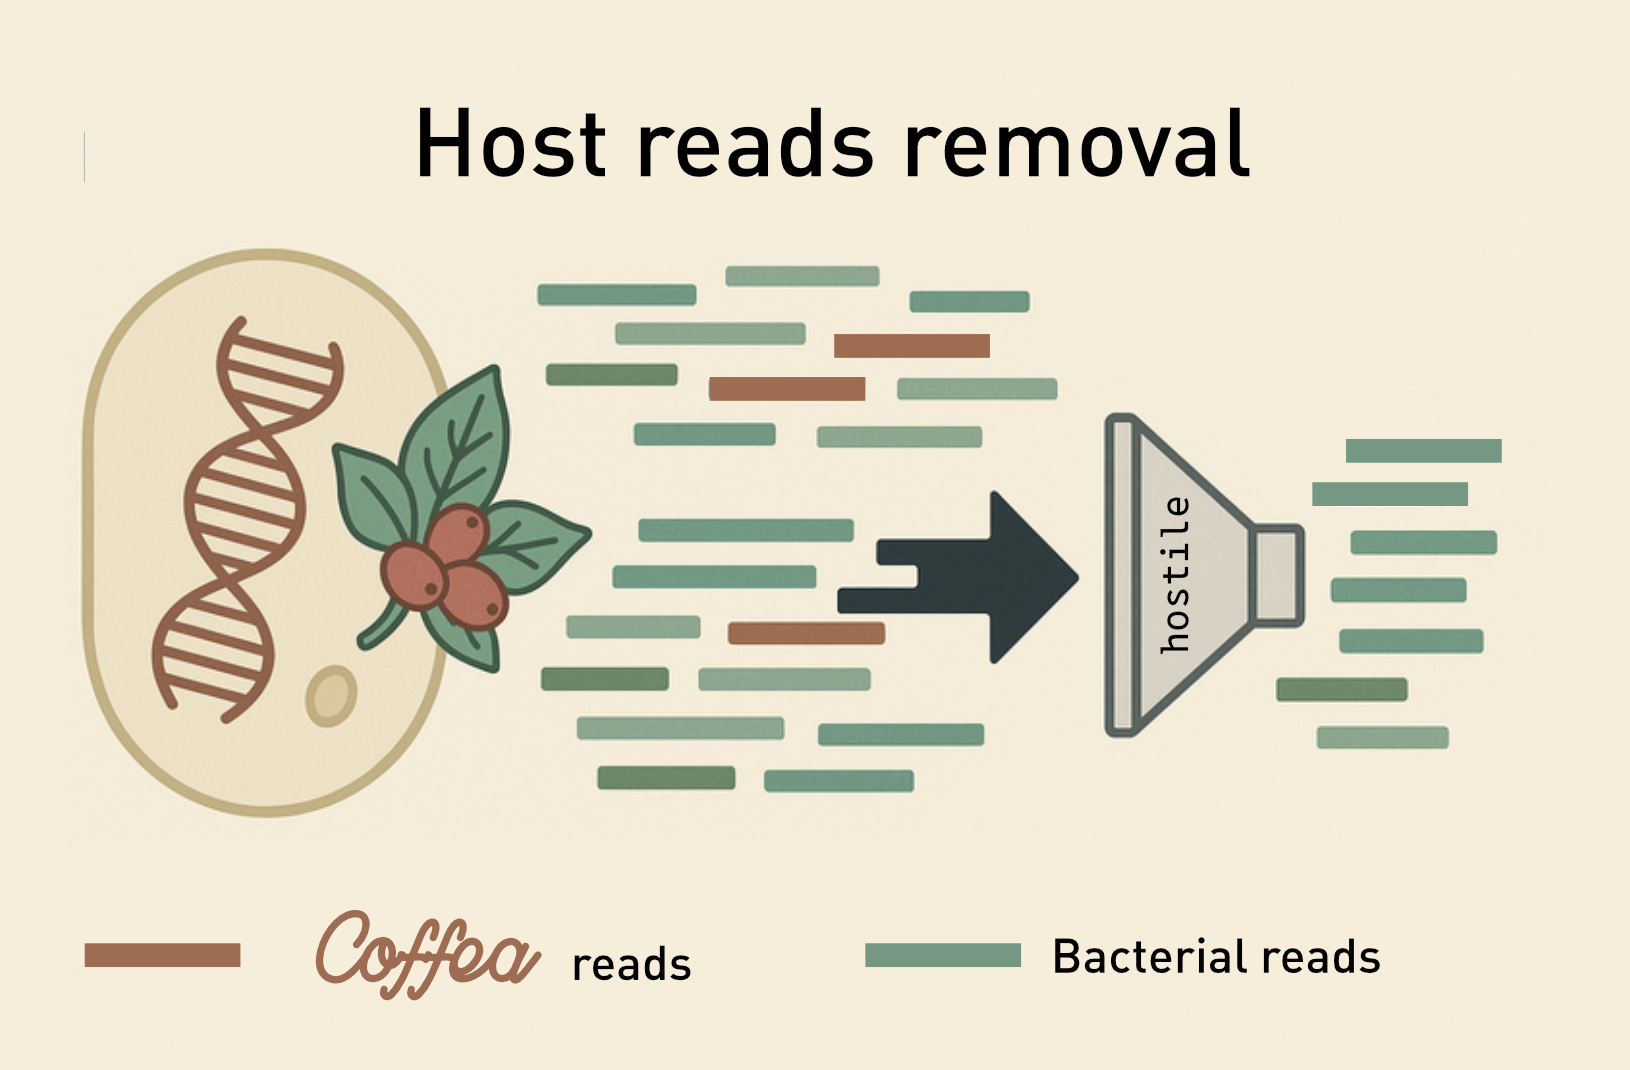
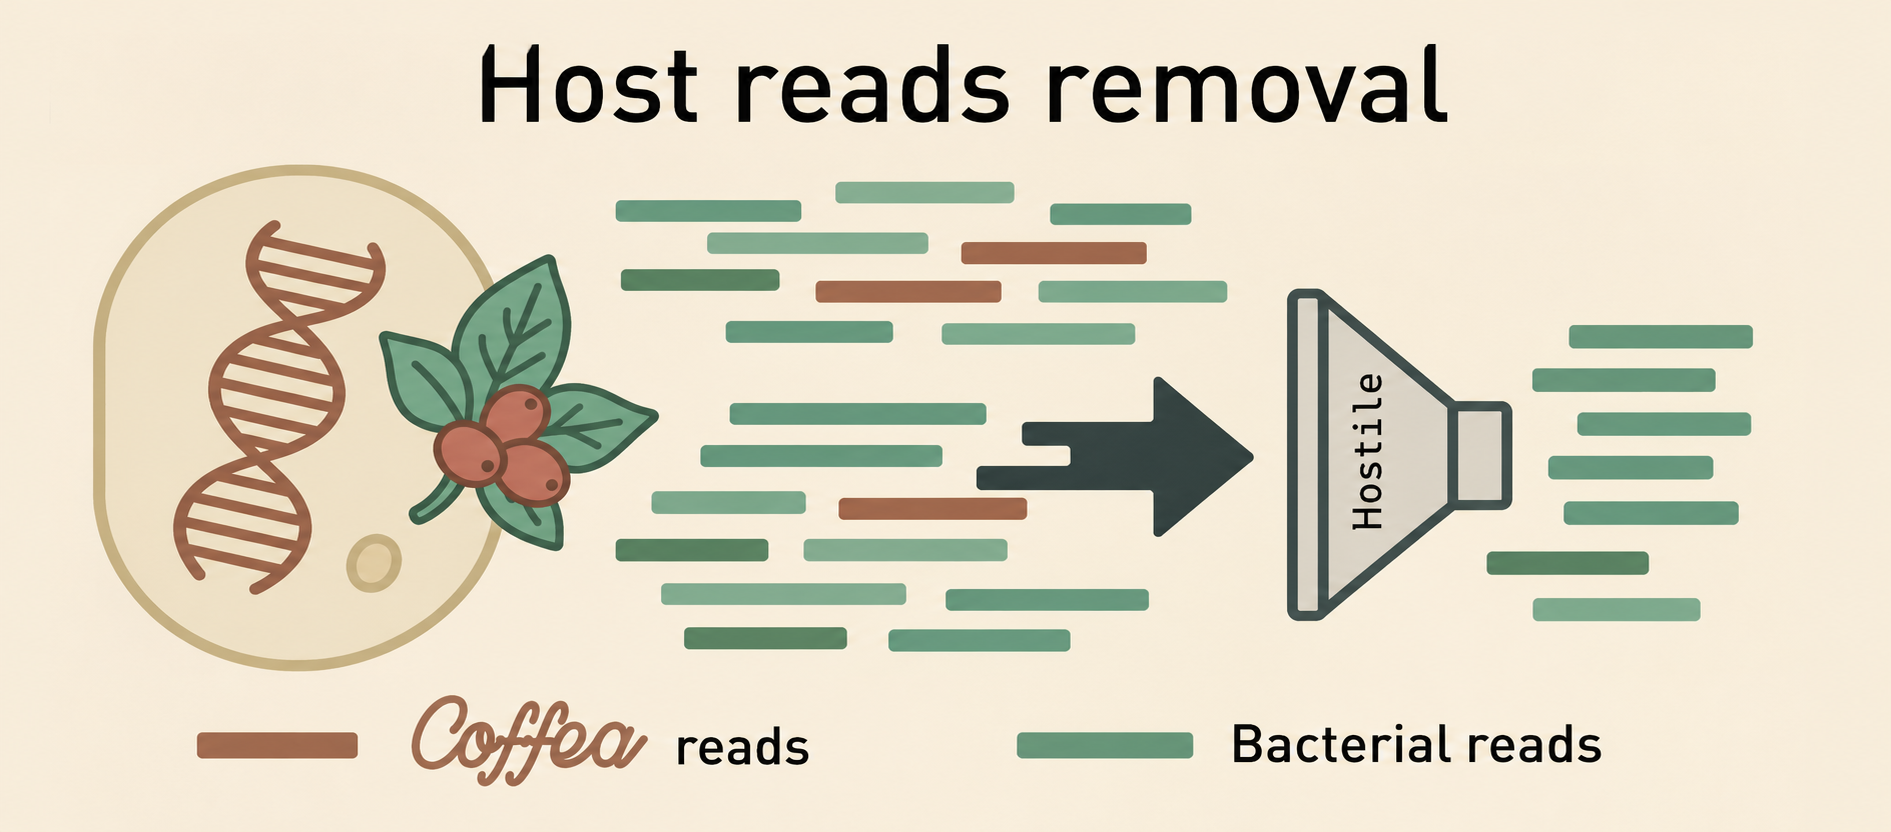
refresh

diff --git a/_includes/navigation.html b/_includes/navigation.html
@@ -1,5 +1,5 @@
 <!-- Navigation -->
-<nav class="navbar navbar-expand-md py-0 .navbar-dark bg-dark text-light">
+<nav class="navbar navbar-expand-md py-0 .navbar-dark bg-dark text-light sticky-top">
   <a class="navbar-brand" href="{{site.baseurl}}/"><i class="fa fa-home"></i></a>
 
   <button class="navbar-toggler" type="button" data-toggle="collapse" data-target="#navbarSupportedContent" aria-controls="navbarSupportedContent" aria-expanded="false" aria-label="Toggle navigation">

diff --git a/modules/QC/_posts/2001-01-01-hostile.md b/modules/QC/_posts/2001-01-01-hostile.md
@@ -31,76 +31,88 @@ So why dont' we simply leave the host reads?
 There is a host that is special: *Homo sapiens*. In our case we usually want to be more stringent in removing host reads (even at the risk of removing microbiome reads), to avoid patients data being identifiable. The genome is the most private biological property of an organism after all.
 
 
-## Using hostile
+## Using Deacon
 
-![Vignette](https://github.com/bede/hostile/blob/main/diagram.png?raw=true)
+[Deacon](https://github.com/bede/deacon) is a fast host-depletion tool that does **not** align reads to a reference. Instead it builds an index of **minimizers** (a compact subset of the *k*-mers) from the reference genome, and removes a read when it shares enough minimizers with that index. This makes it very fast and memory-efficient compared to alignment-based tools.
 
-Hostile is a pipeline based on alignment tools (bowtie2 or minimap2) to remove reads.
+:bulb: Deacon is available from Bioconda: `conda install -c bioconda deacon`. Pre-built indexes (e.g. `panhuman`) are also published for human host removal.
 
-:bulb: Hostile allows downloading pre-made reference indexes for Human and Mouse reads.
+The workflow has three steps: **1)** build an index from the reference, **2)** mask it to avoid removing genuine microbiome reads, and **3)** filter the reads.
 
-### Downloading coffee
+### Downloading the reference
 
-You can use NCBI's `datasets` tool to download the `GCA_036785865.1` reference 
+You can use NCBI's `datasets` tool to download the `GCA_036785865.1` coffee reference 
 [as described here]({{ site.baseurl }}/{% link modules/Extras/_posts/2001-01-01-ncbi-datasets.md %}).
 
-### Index reference (Bowtie)
-
-Note that the FASTA file can be masked to remove regions similar to bacterial's segments, but we will skip this step
-for the workshop.
-
-If you will use Bowtie2 (usually recommended for Illumina reads) as aligner, you will need to build an index with this syntax:
+### 1. Build the index
 
 ```bash
-bowtie2-build $FASTA_REFERENCE $OUTPUT_INDEX
+deacon index build coffee.fa.gz > coffee.idx
 ```
 
-* `$FASTA_REFERENCE` is the path to the FASTA file
-* `$OUTPUT_INDEX` is the path to the output files (basename). You will use this as index for cleaning the reads
+* The input (`coffee.fa.gz`) is the reference FASTA (plain or gzipped); use `-` to read from stdin.
+* `-k` sets the *k*-mer length (default 31) and `-w` the minimizer window (default 15); the defaults are a good starting point.
+* `-t` sets the number of threads.
 
-### Clean reads
+### 2. Mask the index
 
-The *hostile clean* workflow will require the FASTQ files to reads (one if single-end, two if paired-end),
-the index against which aligning the reads and a directory where the output files will be written adding a suffix "clean_1" and "clean_2" respectively.
+As noted above, some regions of the host genome are similar to bacterial sequences. If we keep them in the index, we risk removing real microbiome reads. We can **subtract** the minimizers that the host shares with bacterial references, producing a *masked* index.
 
-Redirecting the standard output, we will save a [JSON](https://telatin.github.io/microbiome-bioinformatics/json-xml/) file with the statistics (amount of host reads).
+We don't need to assemble our own bacterial set: Deacon's own pre-built indexes are masked against **FDA-ARGOS 988**, a curated collection of 988 bacterial genomes published on [Zenodo](https://zenodo.org/records/15424142) for exactly this purpose. We download it and subtract it from the raw index:
+
+:bulb: For the training, this file has already been downloaded for you — use the pre-downloaded copy (path provided during the session) instead of downloading the ~1.2 GB file yourself.
 
 ```bash
-INDEX=/shared/team/2025_training/week5/coffee/coffee-index
+# Download the masking set (~1.2 GB; it is zstd-compressed, so we recompress to gzip)
+curl -fSL 'https://zenodo.org/records/15424142/files/argos988.fa.zst?download=1' \
+  | zstd -d | gzip > argos988.fa.gz
+
+# Subtract the shared minimizers to produce the masked index
+deacon index diff coffee.idx argos988.fa.gz > coffee.masked.idx
+```
+
+* `deacon index diff A.idx B` removes from `A` every minimizer also found in `B` (another index or a FASTA/FASTQ file).
+* For a human host you can skip these two steps entirely and fetch a ready-masked index with `deacon index fetch panhuman-1`; the manual masking matters only for a custom host like coffee.
+* Low-complexity sequence can also be ignored at filtering time with the `-c/--complexity-threshold` option (see below), so this masking step is optional but recommended when the host is phylogenetically close to members of the microbiome.
+
+### 3. Clean the reads
+
+To remove host reads we run `deacon filter` with the `-d/--deplete` flag (otherwise Deacon would *keep* the matching reads). For paired-end data we pass both FASTQ files and write two cleaned outputs:
+
+```bash
+INDEX=coffee.masked.idx
 OUTDIR=cleaned-reads
 mkdir -p $OUTDIR
 
-hostile clean --threads 8 --index $INDEX_PATH \
-  --fastq1 $R1 --fastq2 $R2 \
-  --output $OUTDIR/ > stats.json
+deacon filter --deplete --threads 8 \
+  --check-pairs \
+  $INDEX $R1 $R2 \
+  -o $OUTDIR/${BASE}_1.fastq.gz \
+  -O $OUTDIR/${BASE}_2.fastq.gz \
+  --summary $OUTDIR/${BASE}.deacon.json
 ```
 
-The flags are self-explanatory, and the variables should be replaced with file paths.
+* `--deplete` removes the reads matching the host index (host depletion).
+* `$R1` and `$R2` are the input reads; `-o` and `-O` are the two cleaned outputs.
+* `--check-pairs` validates that the two files stay in sync.
+* `--summary` writes a JSON file with the statistics.
+* `-c 0.1` (optional) ignores low-complexity matches.
 
 ### Summary statistics
 
-The output JSON file will contain statistics about the amount of host reads removed.
+The JSON summary reports how many reads (and bases) were removed. For paired data each pair counts as **two** sequences, so a pair where both mates are host contributes 2 to `seqs_removed`.
 
 ```json
-[
-    {
-        "version": "2.0.2",
-        "aligner": "bowtie2",
-        "index": "/path/to/db/Coffea_canephora/coffee",
-        "options": [],
-        "fastq1_in_name": "ERR2231567_1.fastq.gz",
-        "fastq1_in_path": "/path/to/ERR2231567_1.fastq.gz",
-        "reads_in": 16544372,
-        "reads_out": 11733414,
-        "reads_removed": 4810958,
-        "reads_removed_proportion": 0.29079,
-        "fastq2_in_name": "ERR2231567_2.fastq.gz",
-        "fastq2_in_path": "/path/to/ERR2231567_2.fastq.gz",
-        "fastq1_out_name": "ERR2231567_1.clean_1.fastq.gz",
-        "fastq1_out_path": "2_qc/hostile/ERR2231567_1.clean_1.fastq.gz",
-        "fastq2_out_name": "ERR2231567_2.clean_2.fastq.gz",
-        "fastq2_out_path": "2_qc/hostile/ERR2231567_2.clean_2.fastq.gz"
-    }
-]
+{
+    "seqs_in": 33088744,
+    "seqs_out": 23466828,
+    "seqs_removed": 9621916,
+    "seqs_removed_proportion": 0.29079,
+    "bp_in": 4963311600,
+    "bp_out": 3520024200,
+    "bp_removed": 1443287400,
+    "bp_removed_proportion": 0.29079,
+    "time": 61.2,
+    "seqs_per_second": 540666
+}
 ```
-

diff --git a/modules/QC/_posts/2002-01-01-other.md b/modules/QC/_posts/2002-01-01-other.md
@@ -2,11 +2,82 @@
 title: Other methods
 ---
 
-Hostile is a great tool to remove host reads, and it brings
-the convenience of pre-built indexes for human and mouse.
+On the previous page we used **Deacon** to deplete host reads. It is far from the only option: host removal can be done by aligning reads to a reference and discarding the mapped ones, or by classifying reads with a *k*-mer database. Here we cover a few widely used alternatives, starting with **Hostile**.
 
-It's important to remember that at its core, Hostile is based on
-mapping reads to a reference genome, and then removing the mapped reads.
+## Using Hostile
+
+![Vignette](https://github.com/bede/hostile/blob/main/diagram.png?raw=true)
+
+Hostile is a pipeline based on alignment tools (bowtie2 or minimap2) to remove reads.
+
+:bulb: Hostile allows downloading pre-made reference indexes for Human and Mouse reads.
+
+### Downloading coffee
+
+You can use NCBI's `datasets` tool to download the `GCA_036785865.1` reference 
+[as described here]({{ site.baseurl }}/{% link modules/Extras/_posts/2001-01-01-ncbi-datasets.md %}).
+
+### Index reference (Bowtie)
+
+Note that the FASTA file can be masked to remove regions similar to bacterial's segments, but we will skip this step
+for the workshop.
+
+If you will use Bowtie2 (usually recommended for Illumina reads) as aligner, you will need to build an index with this syntax:
+
+```bash
+bowtie2-build $FASTA_REFERENCE $OUTPUT_INDEX
+```
+
+* `$FASTA_REFERENCE` is the path to the FASTA file
+* `$OUTPUT_INDEX` is the path to the output files (basename). You will use this as index for cleaning the reads
+
+### Clean reads
+
+The *hostile clean* workflow will require the FASTQ files to reads (one if single-end, two if paired-end),
+the index against which aligning the reads and a directory where the output files will be written adding a suffix "clean_1" and "clean_2" respectively.
+
+Redirecting the standard output, we will save a [JSON](https://telatin.github.io/microbiome-bioinformatics/json-xml/) file with the statistics (amount of host reads).
+
+```bash
+INDEX=/shared/team/2025_training/week5/coffee/coffee-index
+OUTDIR=cleaned-reads
+mkdir -p $OUTDIR
+
+hostile clean --threads 8 --index $INDEX_PATH \
+  --fastq1 $R1 --fastq2 $R2 \
+  --output $OUTDIR/ > stats.json
+```
+
+The flags are self-explanatory, and the variables should be replaced with file paths.
+
+### Summary statistics
+
+The output JSON file will contain statistics about the amount of host reads removed.
+
+```json
+[
+    {
+        "version": "2.0.2",
+        "aligner": "bowtie2",
+        "index": "/path/to/db/Coffea_canephora/coffee",
+        "options": [],
+        "fastq1_in_name": "ERR2231567_1.fastq.gz",
+        "fastq1_in_path": "/path/to/ERR2231567_1.fastq.gz",
+        "reads_in": 16544372,
+        "reads_out": 11733414,
+        "reads_removed": 4810958,
+        "reads_removed_proportion": 0.29079,
+        "fastq2_in_name": "ERR2231567_2.fastq.gz",
+        "fastq2_in_path": "/path/to/ERR2231567_2.fastq.gz",
+        "fastq1_out_name": "ERR2231567_1.clean_1.fastq.gz",
+        "fastq1_out_path": "2_qc/hostile/ERR2231567_1.clean_1.fastq.gz",
+        "fastq2_out_name": "ERR2231567_2.clean_2.fastq.gz",
+        "fastq2_out_path": "2_qc/hostile/ERR2231567_2.clean_2.fastq.gz"
+    }
+]
+```
+
+## Other approaches
 
 Other approaches exists, for example based on k-mers, or just using an alignment tool directly.
 

diff --git a/modules/Intro/_posts/2001-01-01-trainers.md b/modules/Intro/_posts/2001-01-01-trainers.md
@@ -2,18 +2,29 @@
 title: Trainers
 ---
 
-![Alise Ponsero]({{ site.baseurl}}/{% link img/alise-ponsero.png %})
-
-<h4 style="color: #5D3E34;">Alise Ponsero</h4>
-
-Alise Ponsero is a senior researcher in the [Core Bioinformatics team](https://quadram.ac.uk/support_groups/core-bioinformatics/) at the
-[Quadram Institute Bioscience](https://quadram.ac.uk/) (Norwich, UK). She has extensive experience in bioinformatics,
-microbiome and virome analysis.
-
-![Andrea Telatin]({{ site.baseurl}}/{% link img/andrea-telatin.png %})
-
-<h4 style="color: #254765;">Andrea Telatin</h4>
-
-Andrea Telatin is a bioinformatician and trainer with 20 years of experience,
-and currently leads the [Core Bioinformatics team](https://quadram.ac.uk/support_groups/core-bioinformatics/) at the
-[Quadram Institute Bioscience](https://quadram.ac.uk/) (Norwich, UK).
+<table style="border: none; border-collapse: collapse; width: 100%;">
+  <tr style="border: none;">
+    <td style="border: none; text-align: center; vertical-align: bottom; width: 50%;">
+      <img src="{{ site.baseurl }}/{% link img/alise-ponsero.png %}" alt="Alise Ponsero" style="width: 180px; border-radius: 6px;">
+    </td>
+    <td style="border: none; text-align: center; vertical-align: bottom; width: 50%;">
+      <img src="{{ site.baseurl }}/{% link img/andrea-telatin.png %}" alt="Andrea Telatin" style="width: 180px; border-radius: 6px;">
+    </td>
+  </tr>
+  <tr style="border: none;">
+    <td style="border: none; text-align: center; vertical-align: top;">
+      <h4 style="color: #5D3E34; margin-bottom: 0;">Alise Ponsero</h4>
+    </td>
+    <td style="border: none; text-align: center; vertical-align: top;">
+      <h4 style="color: #254765; margin-bottom: 0;">Andrea Telatin</h4>
+    </td>
+  </tr>
+  <tr style="border: none;">
+    <td style="border: none; vertical-align: top;">
+      <p>Alise Ponsero is a senior researcher in the <a href="https://quadram.ac.uk/support_groups/core-bioinformatics/">Core Bioinformatics team</a> at the <a href="https://quadram.ac.uk/">Quadram Institute Bioscience</a> (Norwich, UK). She has extensive experience in bioinformatics, microbiome and virome analysis.</p>
+    </td>
+    <td style="border: none; vertical-align: top;">
+      <p>Andrea Telatin is a bioinformatician and trainer with 20 years of experience, and currently leads the <a href="https://quadram.ac.uk/support_groups/core-bioinformatics/">Core Bioinformatics team</a> at the <a href="https://quadram.ac.uk/">Quadram Institute Bioscience</a> (Norwich, UK).</p>
+    </td>
+  </tr>
+</table>

diff --git a/modules/QC/_posts/2000-01-01-intro.md b/modules/QC/_posts/2000-01-01-intro.md
@@ -2,6 +2,8 @@
 title: Filtering reads
 ---
 
+![fastp]({{ site.baseurl}}/{% link img/fastp.svg %})
+
 We already introduced [fastp](https://github.com/OpenGene/fastp) as a versatile and fast tool to perform quality filtering and trimming of sequencing reads.
 
 A typical command to filter paired-end reads is the following:
